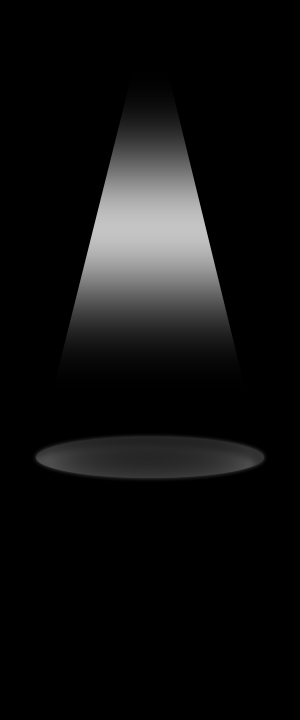
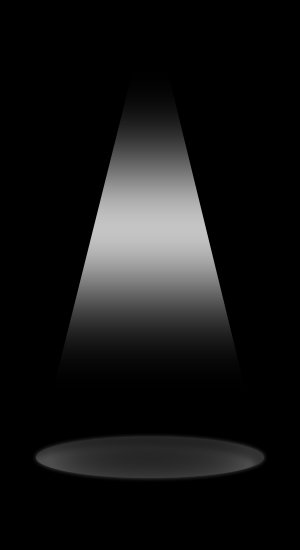
Added media and social links below spotlight

Changed region(s): [[0.12, 0.1545, 0.9, 0.68], [0.12, 0.7727, 0.9, 0.8964]]

diff --git a/index.html b/index.html
@@ -2,12 +2,31 @@
 <html>
 <head>
 <style>
-.center {
+
+.centerbg {
     margin-left: auto;
     margin-right: auto;
     width: 300px;
 }
+
+.center {
+	text-align: center;
+}
+
+.centerimg {
+	display: inline-block;
+	margin: 10px;
+}
+
+a,
+a img {
+    Text-decoration: none;
+    outline: none;
+    border: 0px none transparent;
+}
+
 </style>
+
 <script>
   (function(i,s,o,g,r,a,m){i['GoogleAnalyticsObject']=r;i[r]=i[r]||function(){
   (i[r].q=i[r].q||[]).push(arguments)},i[r].l=1*new Date();a=s.createElement(o),
@@ -18,10 +37,35 @@
   ga('send', 'pageview');
 
 </script>
+
 </head>
+
 <body bgcolor="#000000">
-<div class="center">
+
+<div class="centerbg">
 <img src="img/SpotlightSmall.png">
 </div>
+
+<div class="center">
+
+<a href="http://www.twitch.tv/savaralive">
+<img class="centerimg" src="img/TwitchSmall.png">
+</a>
+
+<a href="https://www.youtube.com/channel/UC9NyAZVZgHA6j74NoU5n4fQ">
+<img class="centerimg" src="img/YouTubeSmall.png">
+</a>
+
+<a href="https://twitter.com/SavaraGaming">
+<img class="centerimg" src="img/TwitterSmall.png">
+</a>
+
+<a href="https://www.facebook.com/SavaraGaming">
+<img class="centerimg" src="img/FacebookSmall.png">
+</a>
+
+</div>
+
 </body>
+
 </html>
